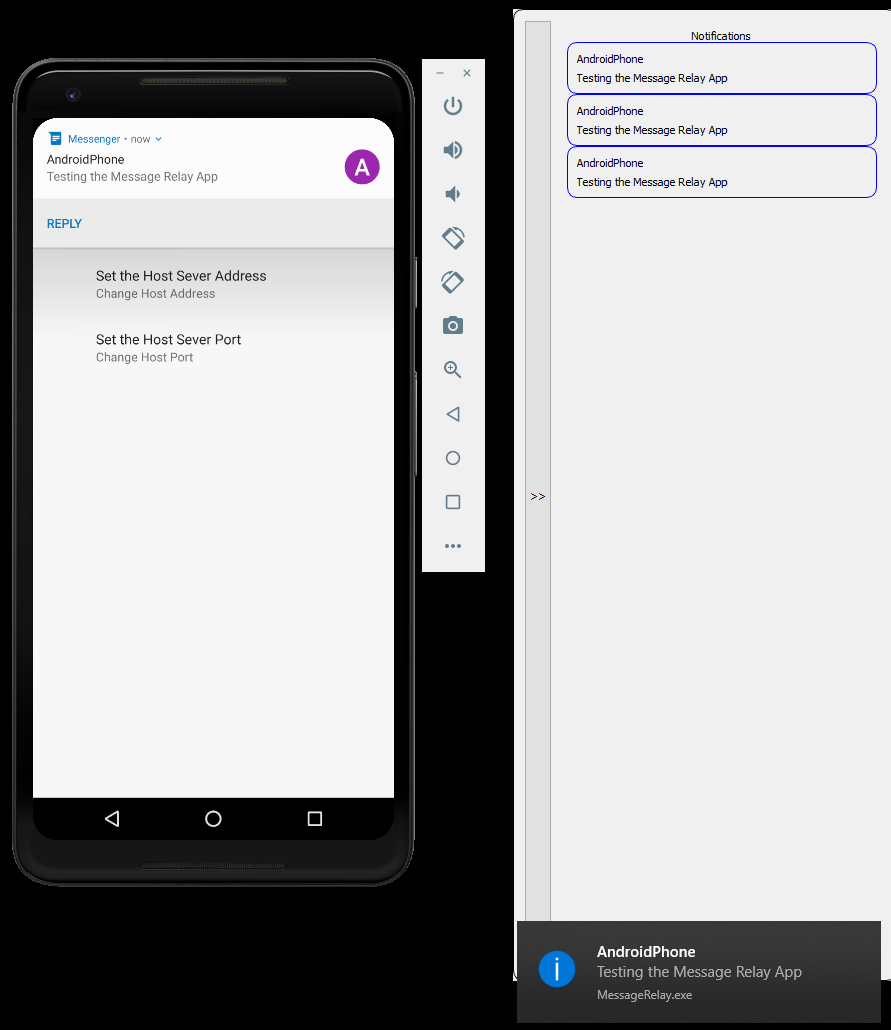
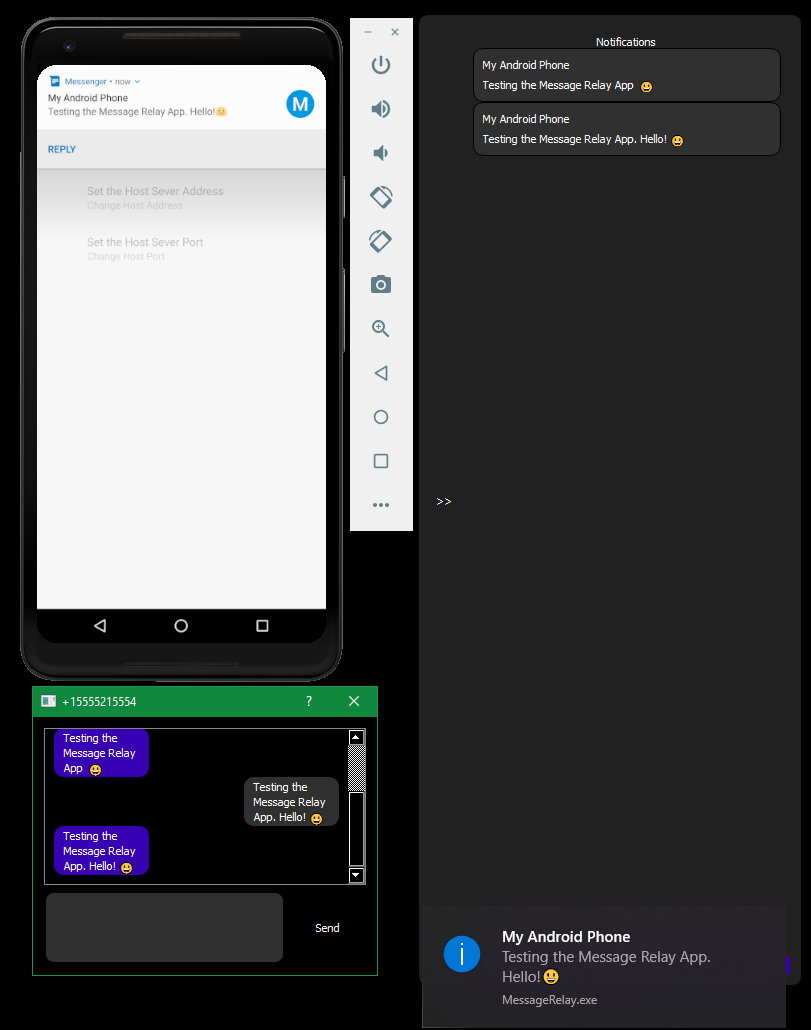
added phone number as title to message window and updated screenshot.

diff --git a/messagewindow.cpp b/messagewindow.cpp
@@ -12,6 +12,7 @@ MessageWindow::MessageWindow(QString num,QStringList * msgList,QWidget *parent) 
     msgList(msgList)
 {
     ui->setupUi(this);
+    this->setWindowTitle(number);
     ui->chatBox->setAlignment(Qt::AlignTop);
     ui->chatBox->setSizeConstraint(QLayout::SetDefaultConstraint);
     ui->chatBox->setColumnStretch(0,1);
@@ -44,9 +45,10 @@ void MessageWindow::updateMessages()
         QLabel * msg = new QLabel(i.mid(1));
         msg->setAlignment(Qt::AlignLeft);
         msg->setWordWrap(true);
-        msg->setContentsMargins(10,2,10,0);
+        msg->setContentsMargins(10,2,10,2);
         msg->setMaximumWidth(static_cast<int>(this->width()*0.30));
-        msg->setSizePolicy(QSizePolicy::Minimum,QSizePolicy::MinimumExpanding);
+        msg->setMinimumHeight(20);
+        msg->setSizePolicy(QSizePolicy::Minimum,QSizePolicy::Minimum);
         msg->adjustSize();
         if(i[0]==0x04){
             msg->setProperty("sender",true);
